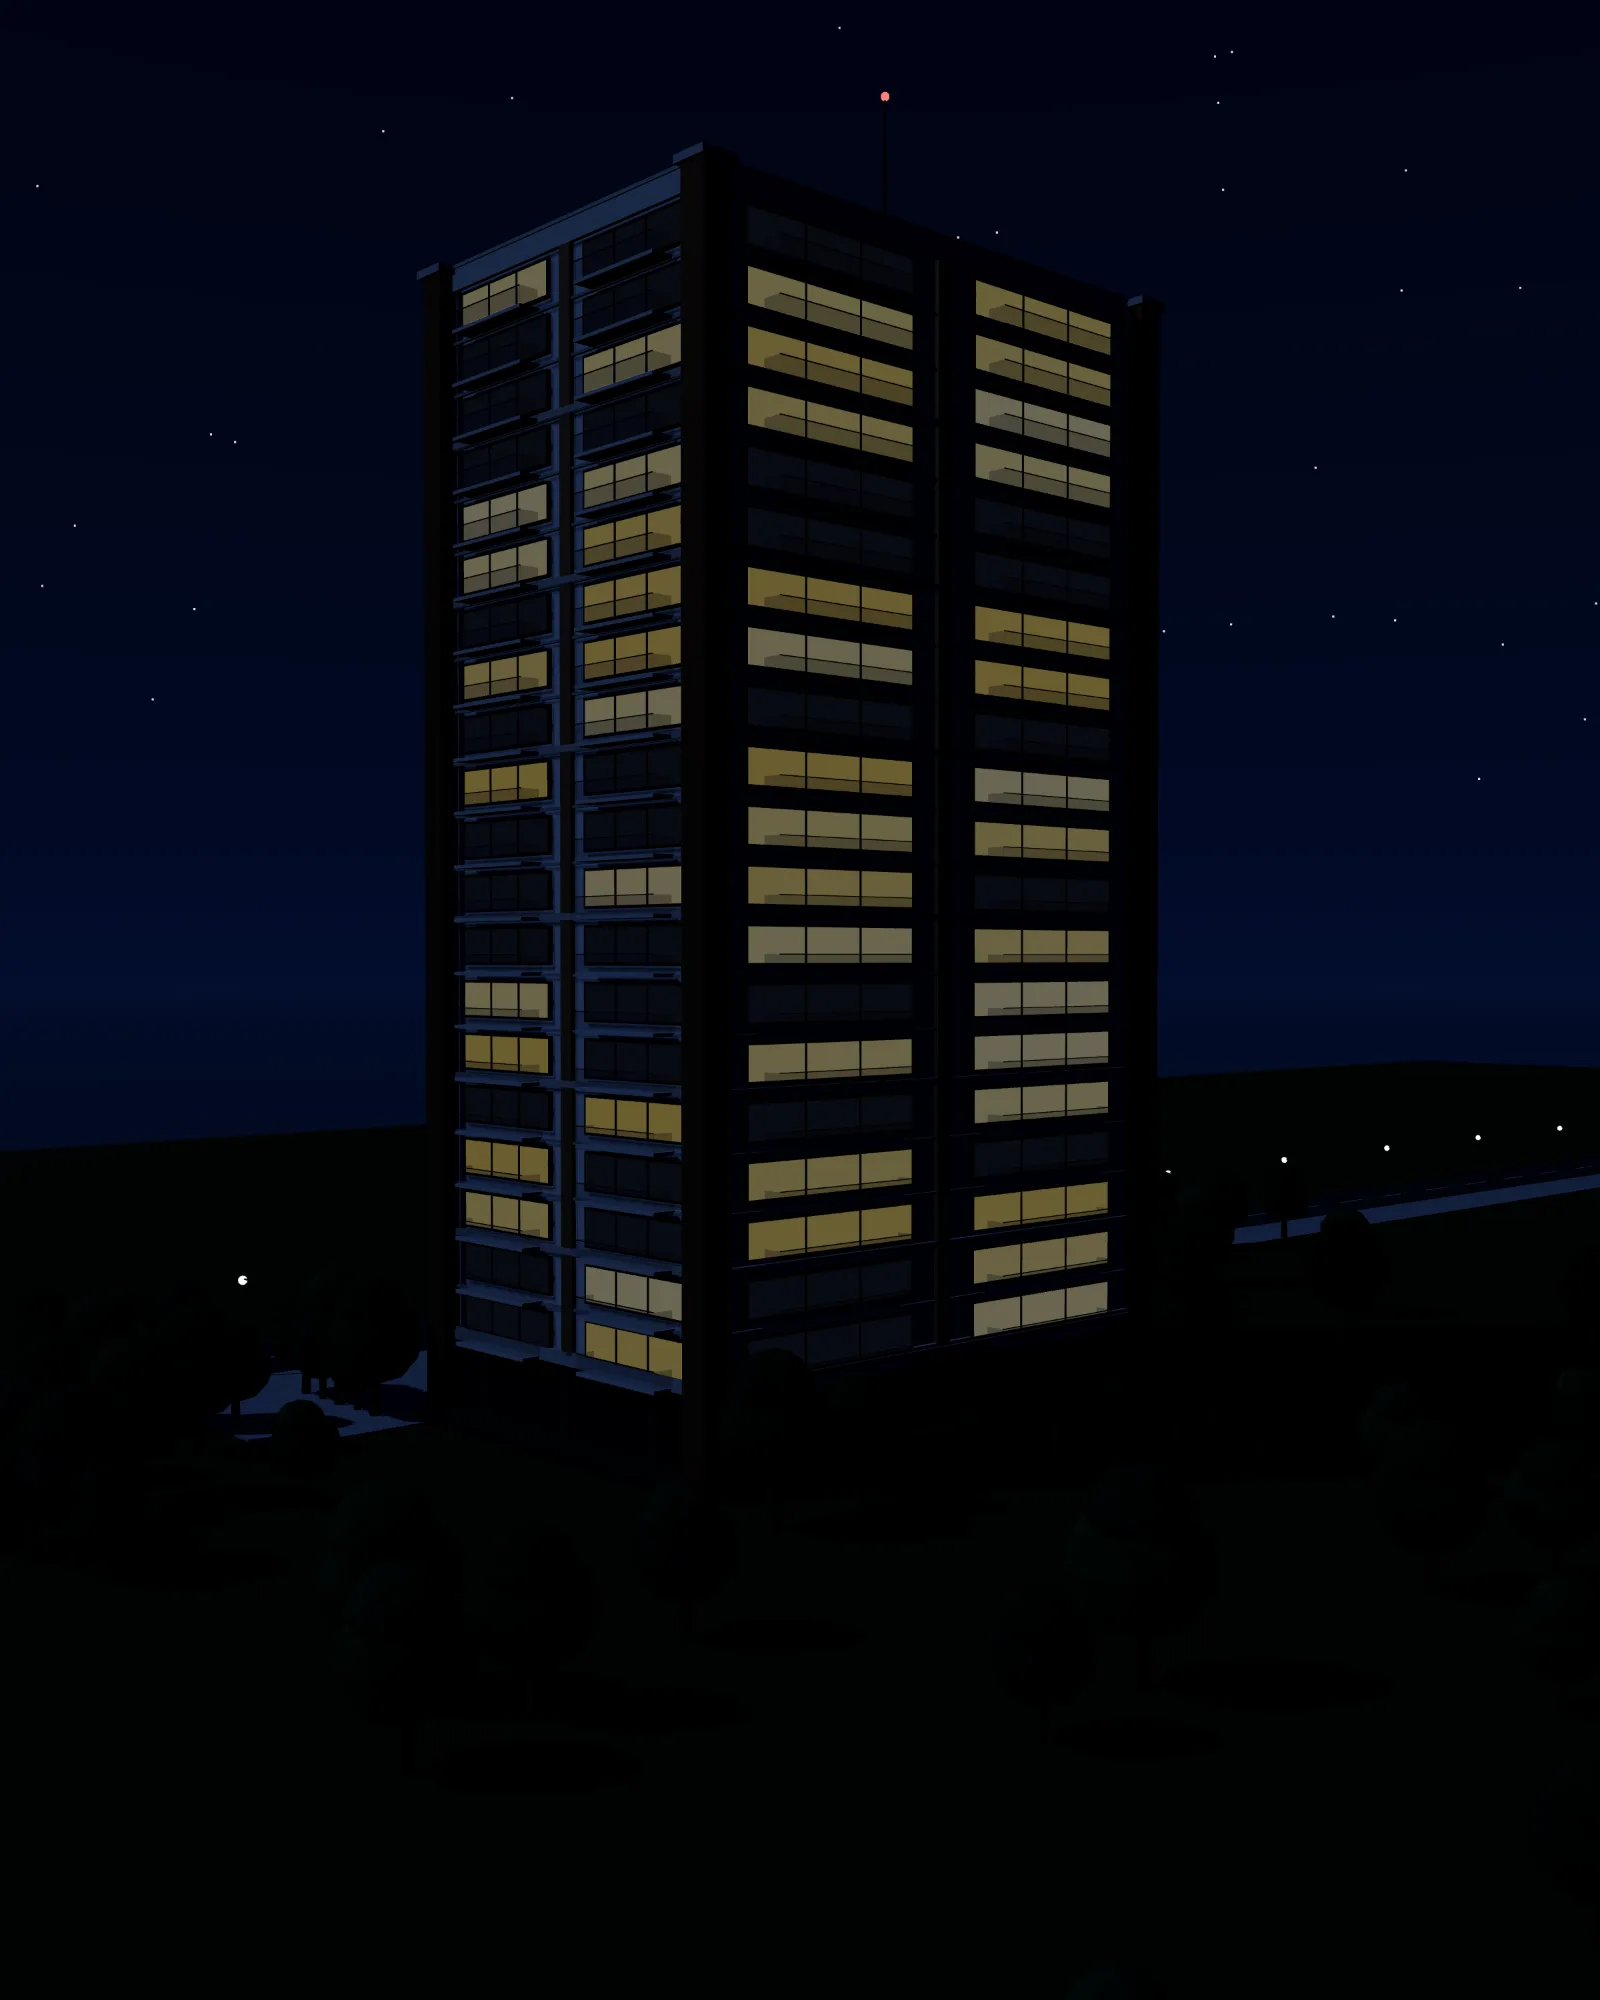
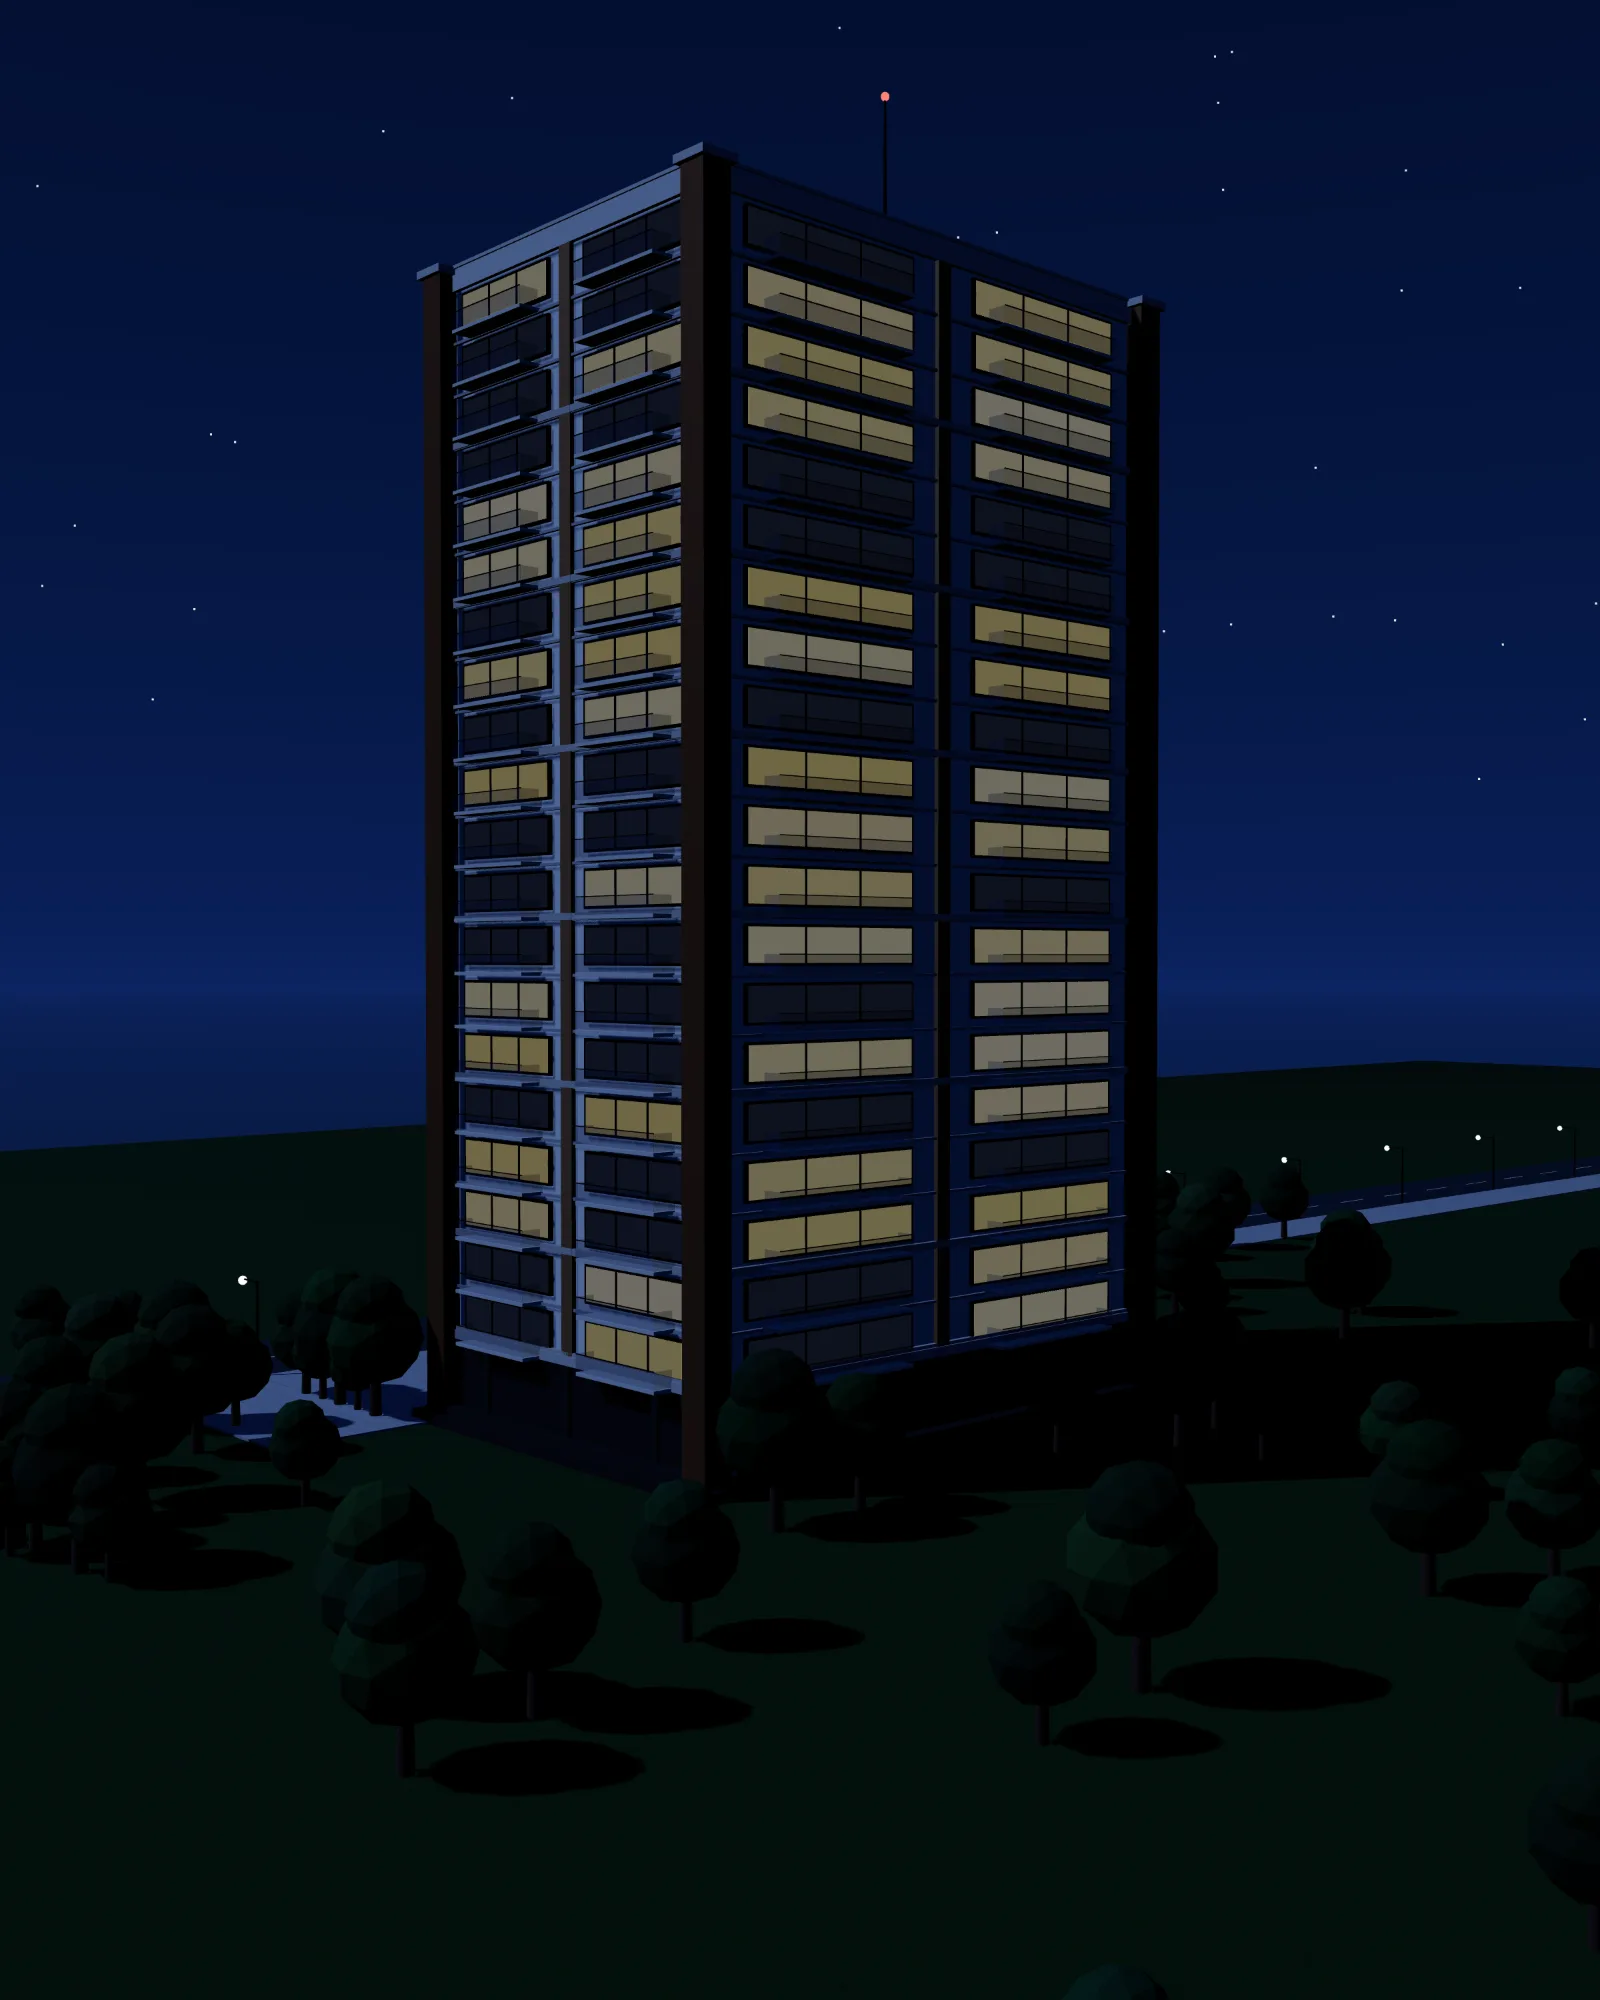
fix(3d): ночной кадр светлее, сцена «готова» после дюжины кадров
Ночь: светлее небо, окна и фонари, экспозиция 1,45 — дом читается и на телефоне.
Первые кадры бывают чёрными, поэтому заглушка уходит после 12 кадров.

diff --git a/frontend/js/modeli-3d-bino-script.js b/frontend/js/modeli-3d-bino-script.js
@@ -39,11 +39,11 @@
       sunColor: 0xffa860, sunI: 2.1, sunPos: [-120, 26, 70], hemiSky: 0x6f86c9, hemiGround: 0x4a4a55, hemiI: 0.6,
       glow: 0.85, lamp: 1.0, stars: 0.35, cloud: 0.55, exposure: 1.05, env: 1.0,
     },
-    // Dushanbe night: deep navy sky, windows glow warmly, street lamps orange
+    // Dushanbe night: deep navy sky, windows glow warmly, street lamps orange; bright enough that the house reads on a phone
     night: {
-      top: 0x030810, horizon: 0x142040, bottom: 0x08100e, fog: 0x081220,
-      sunColor: 0x7090d0, sunI: 0.3, sunPos: [60, 70, 40], hemiSky: 0x1a2a60, hemiGround: 0x060a08, hemiI: 0.25,
-      glow: 1.4, lamp: 1.9, stars: 1, cloud: 0.08, exposure: 1.05, env: 0.6,
+      top: 0x050c1a, horizon: 0x1e2c56, bottom: 0x0b1512, fog: 0x0c1830,
+      sunColor: 0x7d9ad8, sunI: 0.5, sunPos: [60, 70, 40], hemiSky: 0x2a3c78, hemiGround: 0x0c120e, hemiI: 0.5,
+      glow: 1.8, lamp: 2.4, stars: 1, cloud: 0.08, exposure: 1.45, env: 0.8,
     },
   };
 
@@ -967,10 +967,11 @@
       });
       clouds.forEach((c) => { c.position.x += c.userData.v * dt; if (c.position.x > 900) c.position.x = -900; });
       renderer.render(scene, camera);
-      // The first frame is on screen: the page can take away its placeholder picture.
-      if (!drawnOnce) { drawnOnce = true; container.classList.add('is-ready'); if (opts.onReady) opts.onReady(); }
+      // The picture is on screen (a dozen frames: the very first ones can still be black while the GPU compiles the
+      // shaders and builds the shadows) — the page can take away its placeholder render.
+      if (!drawnOnce && ++framesDrawn >= 12) { drawnOnce = true; container.classList.add('is-ready'); if (opts.onReady) opts.onReady(); }
     }
-    var animIdx, drawnOnce = false;
+    var animIdx, drawnOnce = false, framesDrawn = 0;
 
     function resize() {
       const w = container.clientWidth || 800, h = container.clientHeight || 500;
